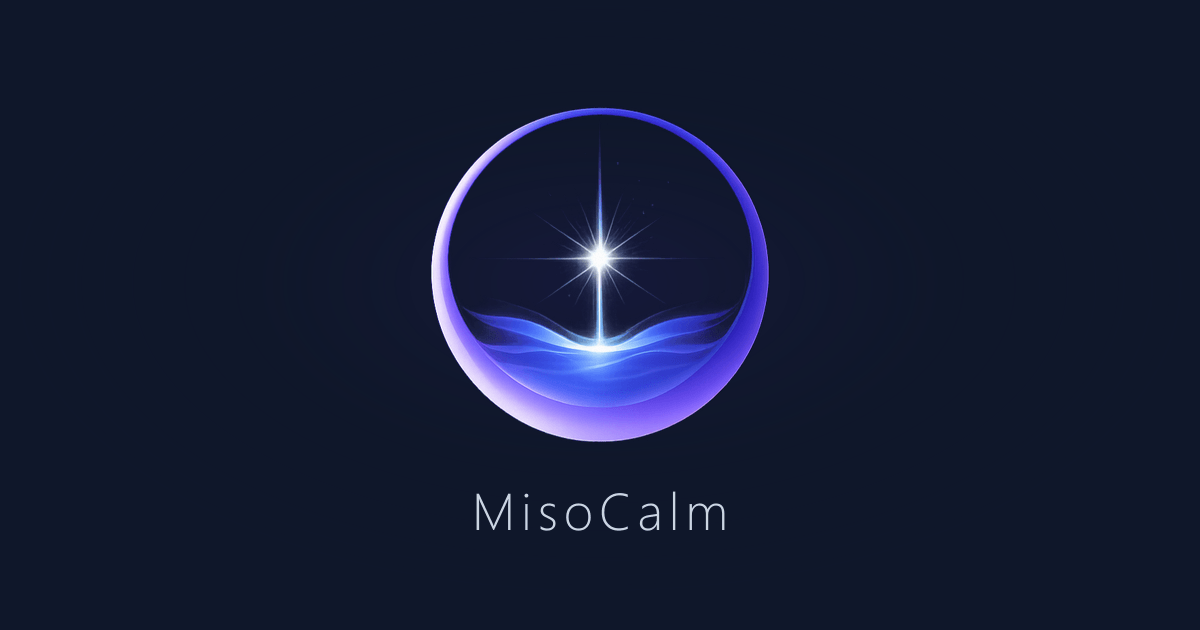
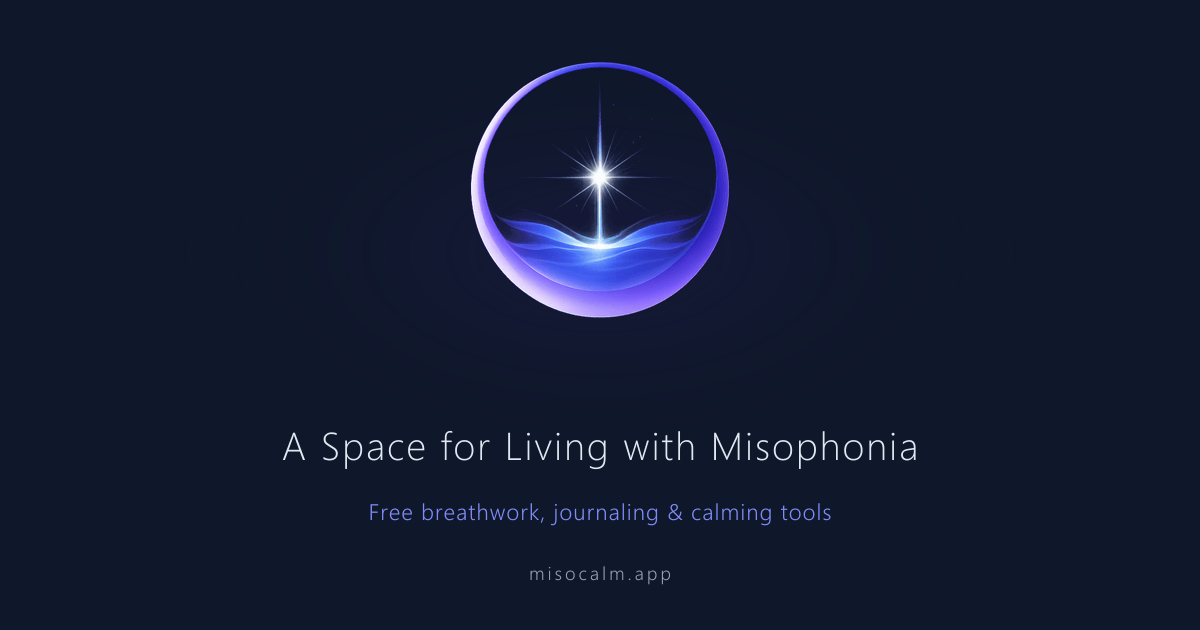
Improve OG image and metadata for better link previews
Add headline, CTA, and URL to OG image. Lengthen title (56 chars)
and description (154 chars) to hit optimal ranges for social sharing.

diff --git a/app/layout.jsx b/app/layout.jsx
@@ -40,9 +40,9 @@ export const metadata = {
     title: 'MisoCalm',
   },
   openGraph: {
-    title: 'MisoCalm - A Space for Living with Misophonia',
+    title: 'MisoCalm - Free Calming Tools for Living with Misophonia',
     description:
-      'A companion app for understanding misophonia, regulating your nervous system, and finding steadier ground.',
+      'A free companion app for understanding misophonia, regulating your nervous system, and finding steadier ground. Breathwork, journaling, and calming tools.',
     url: 'https://misocalm.app',
     siteName: 'MisoCalm',
     type: 'website',
@@ -58,9 +58,9 @@ export const metadata = {
   },
   twitter: {
     card: 'summary_large_image',
-    title: 'MisoCalm - A Space for Living with Misophonia',
+    title: 'MisoCalm - Free Calming Tools for Living with Misophonia',
     description:
-      'A companion app for understanding misophonia, regulating your nervous system, and finding steadier ground.',
+      'A free companion app for understanding misophonia, regulating your nervous system, and finding steadier ground. Breathwork, journaling, and calming tools.',
     images: ['/og-image.png'],
   },
   metadataBase: new URL('https://misocalm.app'),
